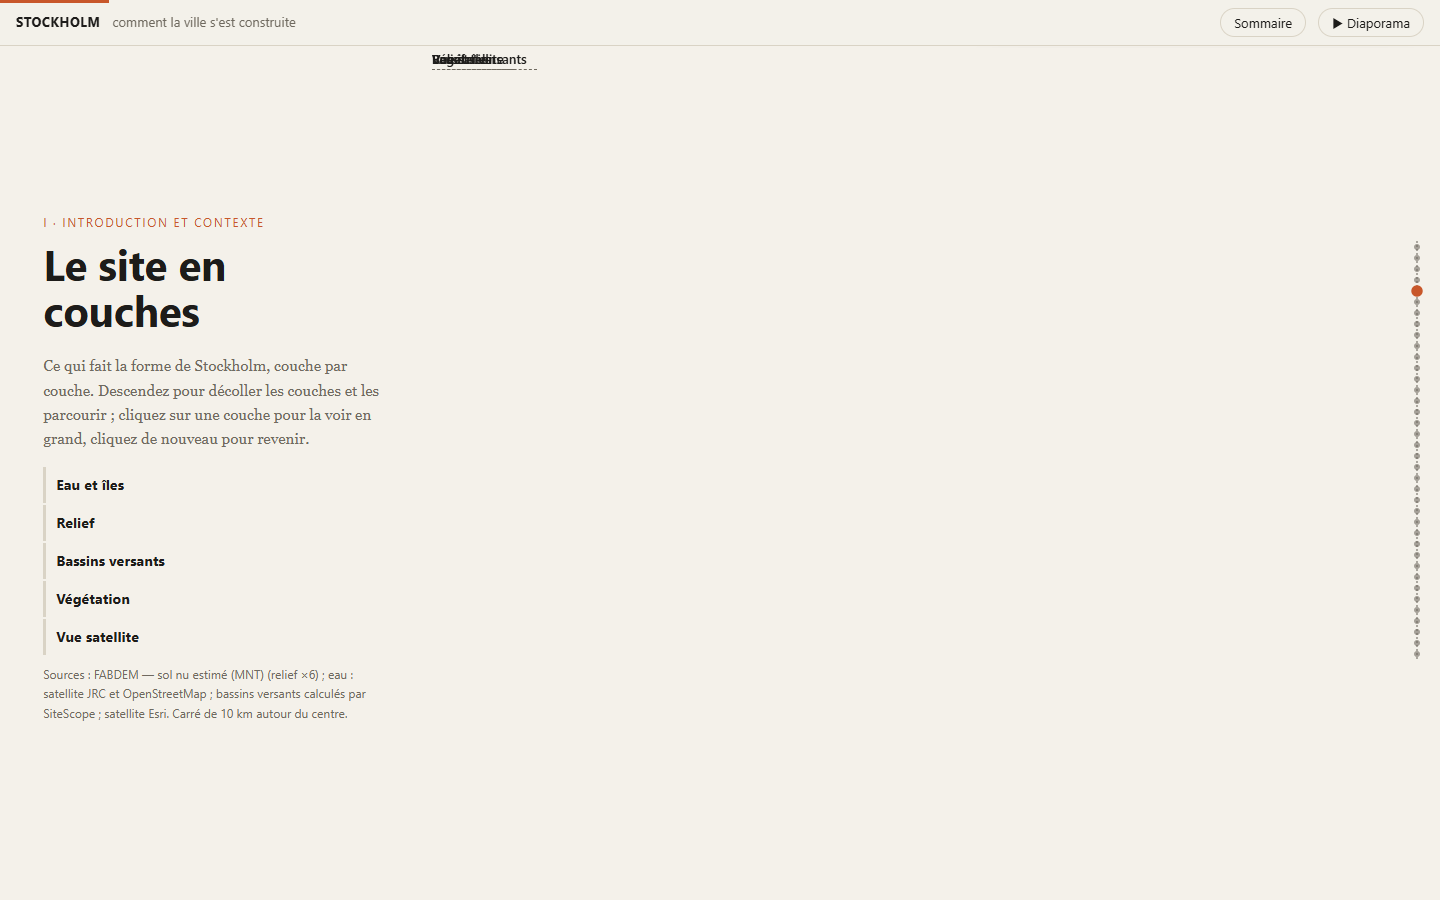
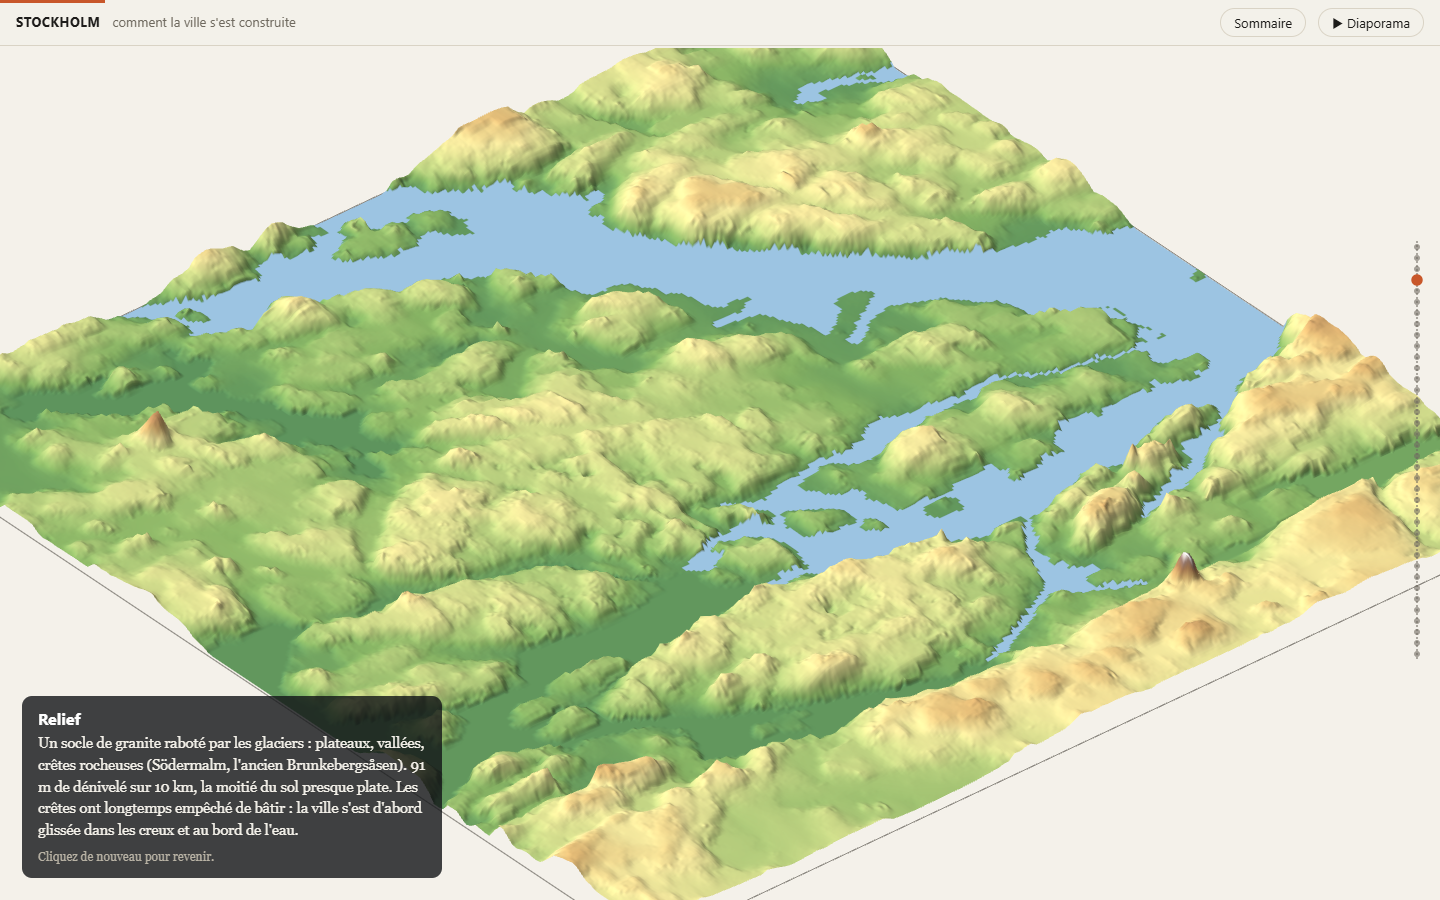
perf: topo et analyses chargées à l'approche, images différées, légendes et hauteur de la section 3D corrigées

diff --git a/page/axo3d.js b/page/axo3d.js
@@ -16,9 +16,11 @@ const COUCHES = [   // de bas en haut
 const EXAG = 6;
 const etat = { pret: false, focus: -1, sale: true, p: 0 };
 let proche = false, tourne = false, secAxo = null, lisAxo = null, hauteurPosee = 0, dernierFond = "", dernierContenu = "";
+/* la section défile sur 1,6 + 0,5 × (nombre de couches) hauteurs d'écran : posée dès le départ, même avant que la 3D soit construite */
+function fixerHauteur(section) { if (enDiapo()) return; if (hauteurPosee !== innerHeight) { hauteurPosee = innerHeight; section.style.height = (innerHeight * (1.6 + COUCHES.length * 0.5)) + "px"; } }
 function relancer() { etat.sale = true; if (!tourne && etat.pret && !window.__sansRaf) { tourne = true; tPrec = performance.now(); requestAnimationFrame(boucle); } }
 function surveillerProche(section) {
-  new IntersectionObserver((es) => { proche = es.some((e) => e.isIntersecting); if (proche) relancer(); }, { rootMargin: "100% 0px 100% 0px" }).observe(section);
+  new IntersectionObserver((es) => { proche = es.some((e) => e.isIntersecting); if (proche) relancer(); else { section.querySelector(".axo-cadre")?.classList.add("cache"); dernierFond = ""; etat.focus = -1; } }, { rootMargin: "100% 0px 100% 0px" }).observe(section);
 }
 let renderer, scene, camera, plaques = [], etiquettes = [], S, SIDE, cible = null, courant = null, tPrec = 0;
 
@@ -144,7 +146,7 @@ function cibles() {
   const section = secAxo ||= document.querySelector(".diapo.axo"), n = COUCHES.length, diapo = enDiapo(), cadre = section.querySelector(".axo-cadre");
   let p = 0.55;
   if (!diapo) {
-    if (hauteurPosee !== innerHeight) { hauteurPosee = innerHeight; section.style.height = (innerHeight * (1.6 + n * 0.5)) + "px"; }
+    fixerHauteur(section);
     p = borne01((scrollY - section.offsetTop) / (section.offsetHeight - innerHeight));
     /* fondu d'entrée et de sortie : le fond fonce d'abord sur la carte, puis les plaques apparaissent ; à la sortie, l'inverse */
     const R = section.getBoundingClientRect(), H = innerHeight, entree = (H - R.top) / H, sortie = R.bottom / H;
@@ -223,10 +225,11 @@ function rendre3d() {
 
 addEventListener("resize", () => { dimensionner3d(); });
 addEventListener("scroll", () => { if (proche) etat.sale = true; }, { passive: true });
-/* la 3D (three.js, textures, relief) n'est construite qu'à l'approche de la section : 3 écrans avant */
+/* la 3D (three.js, textures, relief) n'est construite qu'à l'approche de la section : 2 écrans avant */
 (function attendre() {
   const sec = document.querySelector(".diapo.axo");
   if (typeof ville === "undefined" || !ville || !ville.objets0 || !sec) return setTimeout(attendre, 300);
-  const io = new IntersectionObserver((es) => { if (es.some((e) => e.isIntersecting)) { io.disconnect(); construire(); } }, { rootMargin: "300% 0px 300% 0px" });
+  fixerHauteur(sec); addEventListener("resize", () => fixerHauteur(sec));
+  const io = new IntersectionObserver((es) => { if (es.some((e) => e.isIntersecting)) { io.disconnect(); construire(); } }, { rootMargin: "180% 0px 180% 0px" });
   io.observe(sec);
 })();

diff --git a/outils/bench/axo-test.js b/outils/bench/axo-test.js
@@ -3,7 +3,7 @@ const racine=path.resolve(process.argv[2]||path.join(__dirname,"..","..")); cons
 (async()=>{await new Promise(o=>srv.listen(0,o));const nav=await chromium.launch({args:["--use-gl=angle","--use-angle=swiftshader","--enable-unsafe-swiftshader"]});const page=await (await nav.newContext({viewport:{width:1440,height:900}})).newPage();
 const err=[];page.on("pageerror",e=>err.push(String(e)));
 await page.goto(`http://localhost:${srv.address().port}/page/index.html`);await page.waitForFunction(()=>typeof fondGlobal!=="undefined"&&fondGlobal,null,{timeout:120000});
-await page.evaluate(()=>{const s=document.querySelector(".diapo.axo");scrollTo(0,s.offsetTop+innerHeight*1.2)});await page.waitForTimeout(8000);
-console.log(await page.evaluate(()=>{const c=document.querySelector(".axo-scene canvas");return JSON.stringify({canvas:!!c,w:c?.clientWidth,h:c?.clientHeight,cache:document.querySelector(".axo-cadre").className,scroll:scrollY,top:document.querySelector(".diapo.axo").offsetTop,fond:getComputedStyle(document.querySelector(".axo-cadre")).getPropertyValue("--fond")})}));await page.evaluate(()=>{window.__axoPas&&window.__axoPas(performance.now())});await page.waitForTimeout(500);await page.screenshot({path:"axo-milieu.png"});
+await page.evaluate(()=>{const s=document.querySelector(".diapo.axo");scrollTo(0,s.offsetTop+innerHeight*1.2)});await page.waitForTimeout(12000);
+console.log(await page.evaluate(()=>{const c=document.querySelector(".axo-scene canvas");return JSON.stringify({canvas:!!c,w:c?.clientWidth,h:c?.clientHeight,cache:document.querySelector(".axo-cadre").className,scroll:scrollY,top:document.querySelector(".diapo.axo").offsetTop,fond:getComputedStyle(document.querySelector(".axo-cadre")).getPropertyValue("--fond")})}));console.log(await page.evaluate(()=>{try{window.__axoPas(performance.now());return "ok "+document.querySelector(".axo-cadre").className}catch(e){return "ERR "+e.stack}}));await page.waitForTimeout(500);await page.screenshot({path:"axo-milieu.png"});
 await page.mouse.click(900,450);await page.waitForTimeout(3000);await page.screenshot({path:"axo-focus.png"});
 console.log("erreurs",err);await nav.close();srv.close()})();

diff --git a/outils/bench/t4.js b/outils/bench/t4.js
@@ -1,0 +1,11 @@
+const { chromium } = require("playwright"); const http=require("http"),fs=require("fs"),path=require("path");
+const racine=path.resolve(process.argv[2]||path.join(__dirname,"..",".."));const T={".js":"text/javascript",".json":"application/json",".html":"text/html",".png":"image/png",".jpg":"image/jpeg",".webp":"image/webp"};const srv=http.createServer((q,r)=>{let p=decodeURIComponent(q.url.split("?")[0]);const f=path.join(racine,p);if(!fs.existsSync(f)||fs.statSync(f).isDirectory()){r.writeHead(404);return r.end()}r.writeHead(200,{"content-type":T[path.extname(f)]||"application/octet-stream"});fs.createReadStream(f).pipe(r)});
+(async()=>{await new Promise(o=>srv.listen(0,o));const nav=await chromium.launch({args:["--use-gl=angle","--use-angle=swiftshader","--enable-unsafe-swiftshader"]});const page=await (await nav.newContext({viewport:{width:1440,height:900}})).newPage();
+const err=[];page.on("pageerror",e=>err.push(String(e)));
+await page.goto(`http://localhost:${srv.address().port}/page/index.html`);await page.waitForFunction(()=>typeof fondGlobal!=="undefined"&&fondGlobal,null,{timeout:120000});
+for(const [id,f] of [["carte-pop",0.5],["site-relief",0.5],["site-bassins",0.5],["frise",0.5]]){
+ await page.evaluate(([id,f])=>{const i=DIAPOS.findIndex(d=>d.id===id);const s=diapos[i];scrollTo(0,s.offsetTop+s.offsetHeight*f)},[id,f]);await page.waitForTimeout(3500);
+ await page.evaluate(()=>{window.scrollBy(0,5)});await page.waitForTimeout(2500);
+ await page.screenshot({path:`t4-${id}.png`});
+ console.log(id,await page.evaluate(()=>JSON.stringify({analyses:!!analyses,topo:typeof topo!=="undefined"&&!!topo.img.relief,an:Math.round(an),span:Math.round(cam.span)})));}
+console.log("erreurs",err);await nav.close();srv.close()})();

diff --git a/outils/bench/orig/t4o.js b/outils/bench/orig/t4o.js
@@ -1,0 +1,11 @@
+const { chromium } = require("playwright"); const http=require("http"),fs=require("fs"),path=require("path");
+const racine=path.resolve(process.argv[2]);const T={".js":"text/javascript",".json":"application/json",".html":"text/html",".png":"image/png",".jpg":"image/jpeg",".webp":"image/webp"};const srv=http.createServer((q,r)=>{let p=decodeURIComponent(q.url.split("?")[0]);const f=path.join(racine,p);if(!fs.existsSync(f)||fs.statSync(f).isDirectory()){r.writeHead(404);return r.end()}r.writeHead(200,{"content-type":T[path.extname(f)]||"application/octet-stream"});fs.createReadStream(f).pipe(r)});
+(async()=>{await new Promise(o=>srv.listen(0,o));const nav=await chromium.launch({args:["--use-gl=angle","--use-angle=swiftshader","--enable-unsafe-swiftshader"]});const page=await (await nav.newContext({viewport:{width:1440,height:900}})).newPage();
+const err=[];page.on("pageerror",e=>err.push(String(e)));
+await page.goto(`http://localhost:${srv.address().port}/page/index.html`);await page.waitForFunction(()=>typeof fondGlobal!=="undefined"&&fondGlobal,null,{timeout:120000});
+for(const [id,f] of [["carte-pop",0.5],["site-relief",0.5],["site-bassins",0.5],["frise",0.5]]){
+ await page.evaluate(([id,f])=>{const i=DIAPOS.findIndex(d=>d.id===id);const s=diapos[i];scrollTo(0,s.offsetTop+s.offsetHeight*f)},[id,f]);await page.waitForTimeout(3500);
+ await page.evaluate(()=>{window.scrollBy(0,5)});await page.waitForTimeout(2500);
+ await page.screenshot({path:`o-${id}.png`});
+ console.log(id,await page.evaluate(()=>JSON.stringify({analyses:!!analyses,topo:typeof topo!=="undefined"&&!!topo.img.relief,an:Math.round(an),span:Math.round(cam.span)})));}
+console.log("erreurs",err);await nav.close();srv.close()})();

diff --git a/page/themes.js b/page/themes.js
@@ -177,10 +177,17 @@ function choisirCarte(c) {
 function remplirLegendes() {
   document.querySelectorAll(".encart-legende").forEach((el) => {
     const T = THEMES_CARTE[el.dataset.theme]; if (!T) { el.hidden = true; return; }
+    el.hidden = false;
     el.innerHTML = T.legende().map(([c, t, forme]) => `<div><i class="${forme || "surface"}" style="--c:${c}"></i><span>${t}</span></div>`).join("") + `<p class="encart-source">${T.source}</p>`;
   });
 }
-fetch("../donnees/analyses.json").then((r) => r.ok ? r.json() : null).then((a) => { analyses = a; remplirLegendes(); sale = true; planifier(); }).catch(() => remplirLegendes());
+let analysesDemandees = false;
+function chargerAnalyses() {      // 1,3 Mo : seulement à l'approche des cartes d'analyse
+  if (analysesDemandees) return; analysesDemandees = true;
+  fetch("../donnees/analyses.json").then((r) => r.ok ? r.json() : null).then((a) => { analyses = a; remplirLegendes(); sale = true; planifier(); }).catch(() => remplirLegendes());
+}
+document.addEventListener("DOMContentLoaded", remplirLegendes);      // après site.js : les thèmes de la topo sont alors connus
+surveillerAccesTardif(chargerAnalyses, (d) => !!d.carte);
 
 /* la carte change de largeur en glissant : on redessine à la bonne taille à la fin du mouvement */
 document.getElementById("carte-bloc").addEventListener("transitionend", (e) => { if (e.propertyName === "width") { dimensionner(); majDefilement(true); } });

diff --git a/outils/bench/t3.js b/outils/bench/t3.js
@@ -1,0 +1,6 @@
+const { chromium } = require("playwright"); const http=require("http"),fs=require("fs"),path=require("path");
+const racine=path.resolve(process.argv[2]||path.join(__dirname,"..",".."));const T={".js":"text/javascript",".json":"application/json",".html":"text/html",".png":"image/png",".jpg":"image/jpeg",".webp":"image/webp"};const srv=http.createServer((q,r)=>{let p=decodeURIComponent(q.url.split("?")[0]);const f=path.join(racine,p);if(!fs.existsSync(f)||fs.statSync(f).isDirectory()){r.writeHead(404);return r.end()}r.writeHead(200,{"content-type":T[path.extname(f)]||"application/octet-stream"});fs.createReadStream(f).pipe(r)});
+(async()=>{await new Promise(o=>srv.listen(0,o));const nav=await chromium.launch();const page=await (await nav.newContext({viewport:{width:1440,height:900}})).newPage();
+await page.goto(`http://localhost:${srv.address().port}/page/index.html`);await page.waitForFunction(()=>typeof fondGlobal!=="undefined"&&fondGlobal,null,{timeout:120000});await page.waitForTimeout(2000);
+const r=await page.evaluate(()=>performance.getEntriesByType("resource").map(e=>[e.name.replace(location.origin,""),Math.round(e.encodedBodySize/1024)]).sort((a,b)=>b[1]-a[1]));
+let t=0;for(const [n,k] of r){t+=k;if(k>40)console.log(String(k).padStart(7)+" Ko  "+n)}console.log("total",Math.round(t/1024),"Mo,",r.length,"requêtes");await nav.close();srv.close()})();

diff --git a/page/site.js b/page/site.js
@@ -187,8 +187,9 @@ function imageEcoulement() {
 }
 
 /* ---- chargement (après ville.json : il faut l'origine de la carte) */
-(function attendre() {
-  if (!ville) return setTimeout(attendre, 200);
+let topoDemande = false;
+function chargerTopo() {
+  if (topoDemande || !ville) return; topoDemande = true;
   const geo = (f) => fetch(TOPO + f).then((r) => r.ok ? r.json() : null).catch(() => null);
   Promise.all([chargerImage("relief_mnt.png"), chargerImage("ombrage.png"), chargerImage("pentes.png"), chargerImage("formes_relief.png"), chargerImage("cote_basse.png"),
     geo("bassins_versants.geojson"), geo("lignes_partage_eaux.geojson"), geo("cours_eau_calcules.geojson"), geo("courbes_niveau.geojson"), geo("sommets.geojson"),
@@ -210,7 +211,9 @@ function imageEcoulement() {
     }
     remplirLegendes(); sale = true; planifier();
   });
-})();
+}
+/* l'étude topo (images, grilles, 13 fichiers ≈ 4 Mo) n'est chargée qu'à l'approche du site en couches, ou en diaporama */
+surveillerAccesTardif(chargerTopo, (d, i) => i >= DIAPOS.findIndex((x) => x.id === "axo-site"));
 
 /* ---- sur la carte de l'histoire : routes maritimes en pointillé bleu clair, ports qui apparaissent à leur date */
 function dessinerMer(P) {

diff --git a/page/index.html b/page/index.html
@@ -490,7 +490,7 @@ const main = document.getElementById("main");
 const mediaHtml = (m) => {
   if (!m) return "";
   let h = "";
-  if (m.t === "img") h = `<img src="${m.src}" alt="${m.alt || ""}">`;
+  if (m.t === "img") h = `<img src="${m.src}" alt="${m.alt || ""}" loading="lazy" decoding="async">`;
   else if (m.t === "video") h = `<video src="${m.src}" controls muted playsinline preload="metadata"></video>`;
   else h = `<div class="a-venir"><div><b>À venir</b>${m.note || ""}</div></div>`;
   const l = m.legende ? `<div class="legende">${m.legende}</div>` : "";
@@ -508,7 +508,7 @@ DIAPOS.forEach((d, i) => {
   }
   if (d.axo) {
     s.className = "diapo axo";
-    s.innerHTML = `<div class="axo-cadre"><div class="axo-texte">${d.rubrique ? `<p class="kicker">${d.rubrique}</p>` : ""}<h2>${d.titre}</h2>
+    s.innerHTML = `<div class="axo-cadre cache"><div class="axo-texte">${d.rubrique ? `<p class="kicker">${d.rubrique}</p>` : ""}<h2>${d.titre}</h2>
       <p class="axo-intro">${d.intro || ""}</p><ol class="axo-liste"></ol><p class="axo-source legende"></p></div>
       <div class="axo-scene"><div class="axo-pile"></div></div></div>`;
     main.appendChild(s); return;

diff --git a/page/carte.js b/page/carte.js
@@ -81,6 +81,15 @@ function vueCam(nom) {
   return { x: x - ville.origine[0], y: y - ville.origine[1], span: v.span, nom: v.nom };
 }
 
+/* Chargements différés : « declencher » part quand une diapo choisie (ids) approche à 2 écrans, ou en diaporama. */
+function surveillerAccesTardif(declencher, ids) {
+  const lancer = () => { if (!ville) return setTimeout(lancer, 300); declencher(); };
+  const io = new IntersectionObserver((es) => { if (es.some((e) => e.isIntersecting)) { io.disconnect(); lancer(); } }, { rootMargin: "180% 0px 180% 0px" });
+  diapos.forEach((s, i) => { if (ids(DIAPOS[i], i)) io.observe(s); });
+  new MutationObserver(() => { if (enDiapo()) { io.disconnect(); lancer(); } }).observe(document.body, { attributes: true, attributeFilter: ["class"] });
+  if (enDiapo()) lancer();
+}
+
 /* ---- scène courante d'après le défilement : l'année et la vue se fondent d'une diapo à la suivante ---- */
 /* D'une vue à l'autre : l'échelle varie en logarithme et le point visé glisse en proportion de l'écran, pas du terrain —
    en zoomant sur Stockholm depuis l'Europe, la ville reste sous les yeux au lieu de dériver (puis d'arriver d'un coup). */
